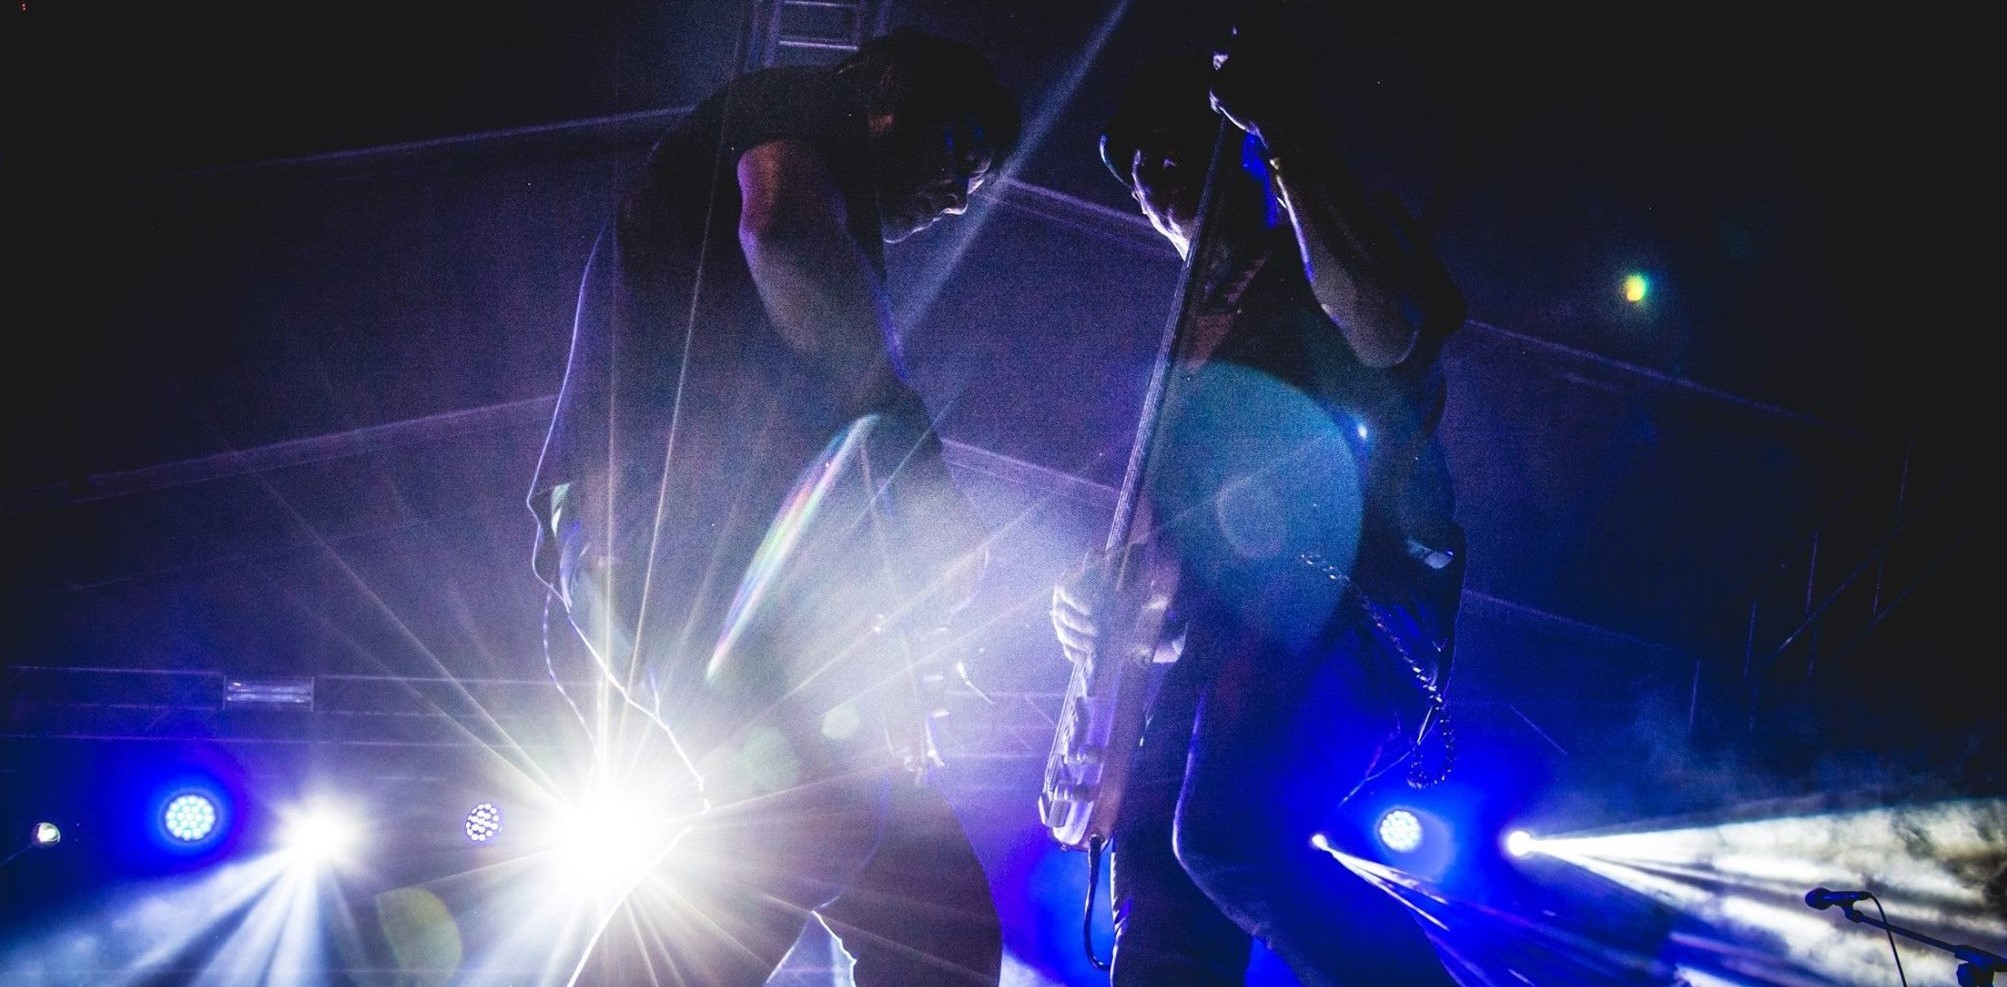
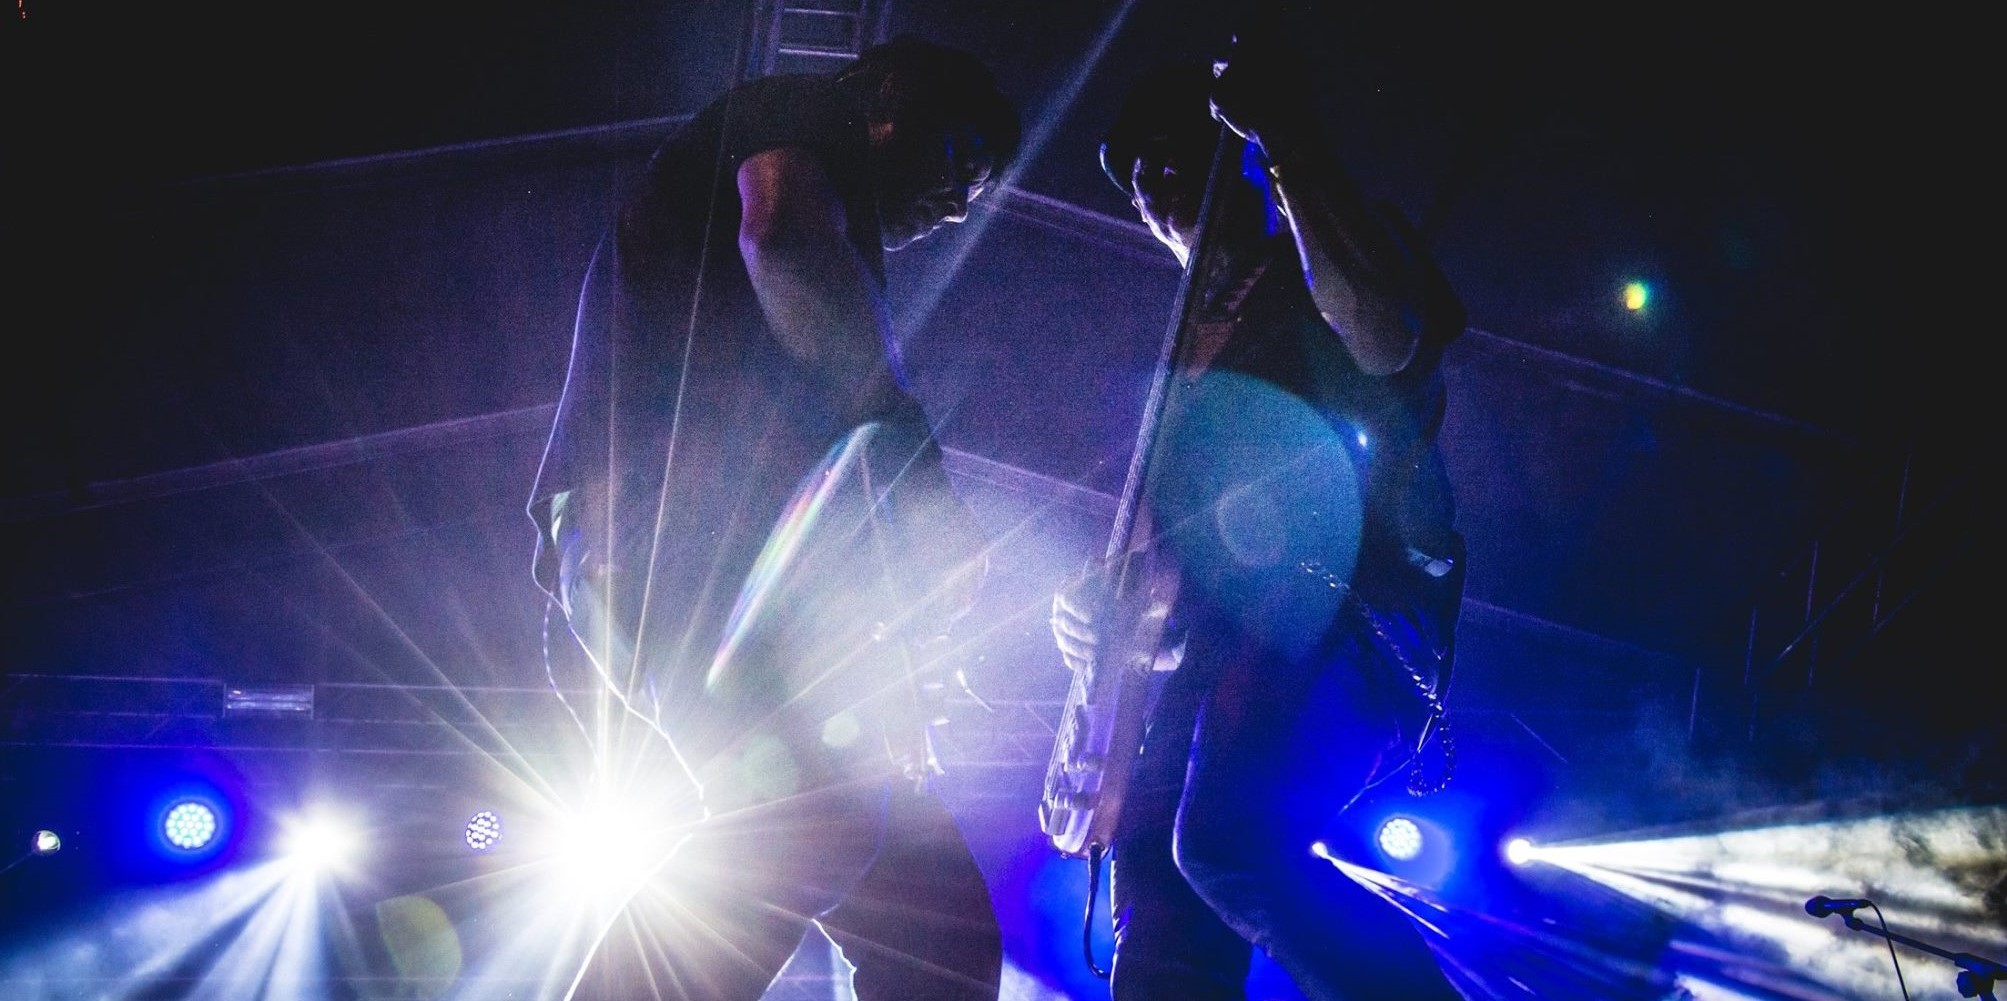
Add

diff --git a/src/components/newsletter/Newsletter.tsx b/src/components/newsletter/Newsletter.tsx
@@ -53,12 +53,14 @@ export default function Newsletter() {
         backgroundImage: `linear-gradient(to bottom right, rgba(0, 0, 0, 0.8), rgba(20, 20, 20, 0.85)), url(${texture.src})`,
       }}
     >
-      <div className="w-full px-10 md:px-10 mx-auto flex flex-col items-center text-white pb-20 pt-24 overflow-hidden z-20">
+      <div className="w-full px-6 md:px-10 mx-auto flex flex-col items-center text-white pb-20 pt-24 overflow-hidden z-20">
         <div className="max-w-3xl mx-auto text-center">
-          <h2 className="font-montserrat text-[44px] font-semibold mb-2">
+          <h2 className="font-montserrat text-[36px] sm:text-[44px] font-semibold mb-2">
             Zaregistrujte se
           </h2>
-          <p className="text-gray-300 text-lg mb-5">Přihlášení k odběru novinek</p>
+          <p className="text-gray-300 text-base sm:text-lg mb-5">
+            Přihlášení k odběru novinek
+          </p>
 
           <form
             onSubmit={handleSubmit}
@@ -72,7 +74,7 @@ export default function Newsletter() {
               value={email}
               onChange={(e) => setEmail(e.target.value)}
               required
-              className="w-[400px] sm:w-[400px] md:w-[450px] px-4 py-3 rounded-md border border-gray-300 text-gray-900 focus:outline-none focus:ring-2 focus:ring-pink-500 transition"
+              className="w-full max-w-[450px] px-4 py-3 rounded-md border border-gray-300 text-gray-900 focus:outline-none focus:ring-2 focus:ring-pink-500 transition"
             />
 
             {/* Honeypot: Neviditelný select */}
@@ -88,7 +90,7 @@ export default function Newsletter() {
               <option value="fajn">Fajn</option>
               <option value="super">Super</option>
               <option value="mohlo by to být lepší">Mohlo by to být lepší</option>
-            </select>            
+            </select>
 
             <p className="text-sm md:text-base text-gray-300 text-center mb-2 leading-relaxed">
               Přečetl(a) jsem si a rozumím&nbsp;
@@ -122,7 +124,7 @@ export default function Newsletter() {
             <div className="flex w-full justify-center items-center">
               <button
                 type="submit"
-                className="flex justify-center items-center w-[70%] py-3 bg-rose-600 hover:bg-rose-700 hover:scale-105 text-white font-semibold rounded-md transition-transform duration-300 ease-in-out"
+                className="flex justify-center items-center w-full max-w-[300px] py-3 bg-rose-600 hover:bg-rose-700 hover:scale-105 text-white font-semibold rounded-md transition-transform duration-300 ease-in-out"
               >
                 Odebírat
               </button>

diff --git a/src/components/slider/ImageSlider.tsx b/src/components/slider/ImageSlider.tsx
@@ -72,15 +72,15 @@ export default function ImageSlider() {
 
   return (
     <div className="relative z-40 overflow-x-hidden bg-black">
-      <div className="relative w-screen h-[60vh] sm:h-[70vh] md:h-[80vh] lg:h-screen overflow-hidden">
+      <div className="relative w-screen h-[50vh] sm:h-[70vh] md:h-[80vh] lg:h-[110vh] monitor:h-[100vh] overflow-hidden">
         <Slider {...settings}>
           {images.map((img, index) => (
-            <div key={index} className="relative w-screen h-[60vh] sm:h-[70vh] md:h-[80vh] lg:h-screen">
+            <div key={index} className="relative mt-16 sm:mt-16 md:mt-0 w-screen h-[50vh] sm:h-[70vh] md:h-[80vh] lg:h-[110vh] monitor:h-[100vh]">
               <Image
                 src={img.src}
                 alt={img.alt}
                 fill
-                className="object-cover"
+                className="object-bottom sm:object-bottom md:object-cover"
                 priority={index === 0}
                 sizes="100vw"
               />

diff --git a/src/components/footer/Footer.tsx b/src/components/footer/Footer.tsx
@@ -76,7 +76,7 @@ export default function FooterWithNewsletter() {
   );
 
   return (
-    <footer className="bg-white text-gray-800 relative z-40 select-none px-6 py-12 md:px-16">
+    <footer className="bg-white text-gray-800 relative z-40 select-none px-6 py-12 md:px-16 overflow-hidden">
       {/* Footer content */}
       <div className="max-w-6xl mx-auto grid grid-cols-1 md:grid-cols-3 gap-12 items-center text-center md:text-left">
         {/* Logo & text */}
@@ -88,7 +88,7 @@ export default function FooterWithNewsletter() {
         </div>
 
         {/* Sociální ikony – centrované */}
-        <div className="h-full flex items-center justify-center lg:mt-[-35px]">
+        <div className="h-full flex items-center justify-center lg:translate-y-[-20px]">
           {renderSocialLinks()}
         </div>
 

diff --git a/src/components/titleWithLines/TitleWithLines.tsx b/src/components/titleWithLines/TitleWithLines.tsx
@@ -41,7 +41,7 @@ const TitleWithLines: FC<TitleWithLinesProps> = ({
       />
 
       <motion.h2
-        className="text-4xl uppercase font-montserrat font-bold text-white text-center block sm:hidden"
+        className="text-3xl uppercase font-montserrat font-bold text-white text-center block sm:hidden"
         initial={{ opacity: 0, y: 10 }}
         animate={{ opacity: 1, y: 0 }}
         transition={{ delay: delay + 0.3, duration: 0.8, ease: "easeOut" }}

diff --git a/src/app/page.tsx b/src/app/page.tsx
@@ -256,7 +256,7 @@ export default function Home() {
                       borderImageSource: "linear-gradient(to right, #ff6a00, #ee0979)",
                     }}
                   >
-                    Více videí
+                    Další videa
                   </button>
                 </Link>
               </div>

diff --git a/src/app/globals.css b/src/app/globals.css
@@ -11,6 +11,7 @@
 
 html {
   scroll-behavior: smooth;
+  overflow-x: hidden;
 }
 
 :root {
@@ -68,7 +69,7 @@ body {
 
 .animate-gradient-liquid {
   background-size: 500% 500%;
-  animation: gradientLiquid 13s ease-in-out infinite;
+  animation: gradientLiquid 10s ease-in-out infinite;
 }
 
 .side-accent-line {
